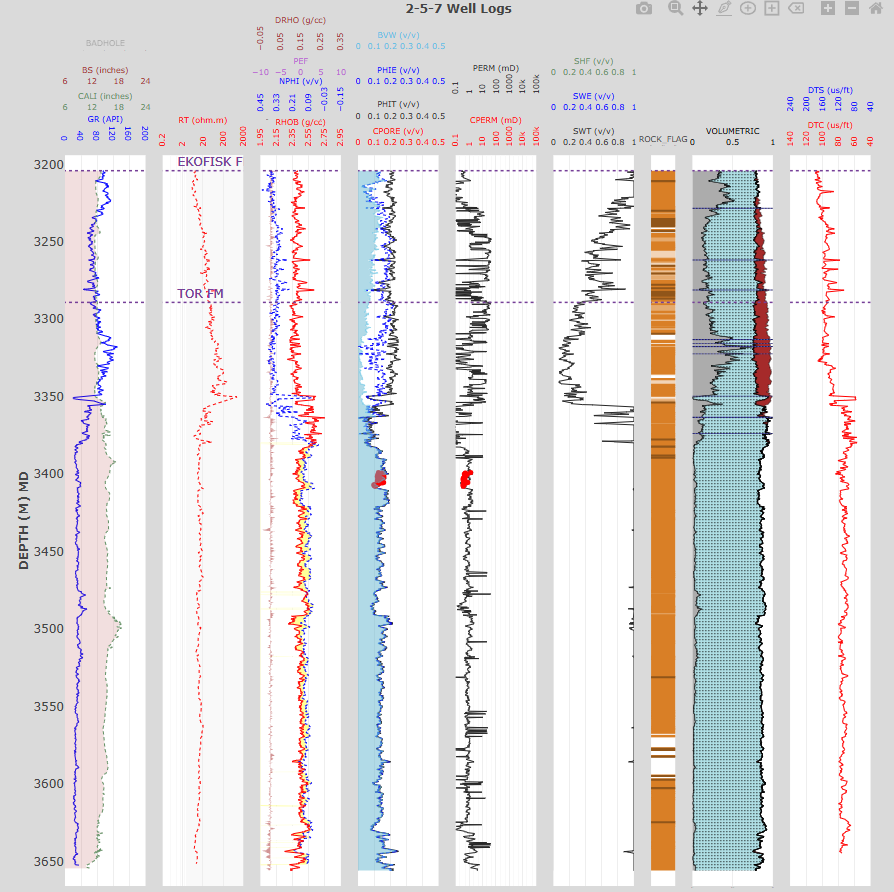
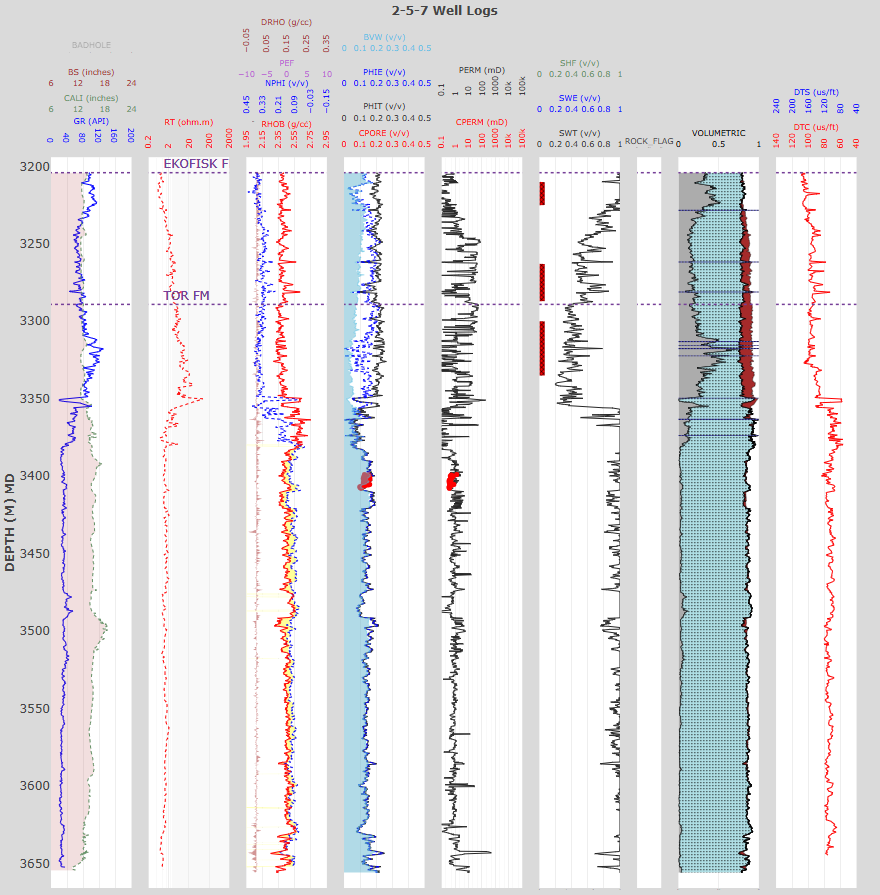
update 2-5 analysis result

Changed region(s): [[0.0, 0.0, 0.9818, 0.9989], [0.8284, 0.0, 0.9818, 0.0303], [0.7057, 0.0, 0.7977, 0.0303]]

diff --git a/03_NNS_2-5/README.md b/03_NNS_2-5/README.md
@@ -12,8 +12,6 @@ The hydrocarbons were sourced from the Upper Jurassic Kimmeridge Clay Formation 
 
 Development of the Ekofisk area began in the 1970s and has involved extensive use of water injection for pressure support and improved oil recovery. A significant challenge has been reservoir compaction, which has led to seabed subsidence, requiring extensive platform remediation and redevelopment efforts over the years.
 
-!alt text
-
 ### Analysis Workflow
 
 The analysis is divided into five main stages, each covered by a dedicated Jupyter notebook:
@@ -37,33 +35,38 @@ This notebook focuses on consolidating data sources into a unified and analysis-
 
 This notebook performs essential log conditioning and computes the primary reservoir properties: lithology and porosity.
 
-*   **Log Conditioning**: Raw logs are conditioned to correct for borehole environmental effects and measurement noise. This includes despiking and smoothing to ensure data quality.
-*   **Volume of Clay (VCLAY)**: The volume of clay is estimated primarily from the Gamma Ray (GR) log. The calculation is calibrated against clean and shale baselines to provide a continuous VCLAY curve.
-*   **Lithology Determination**: Given the chalk reservoir, a multi-mineral model is established. The volume of calcite (VCALC) is determined, likely using a solver or crossplot techniques (e.g., Neutron-Density) to account for the primary mineralogy alongside clay content.
+*   **Volume of Clay (VCLAY)**: The volume of clay is estimated primarily from the Neutron Porosity (NPHI) and Bulk Density (RHOB) and supplemented by Gamma Ray (GR) log. The calculation is calibrated against clean and shale end points.
+*   **Lithology Determination**: Given the chalk reservoir, the volume of calcite (VCALC) is determined, using Neutron-Density cross plot to account for the primary mineralogy alongside clay content.
 *   **Porosity Calculation (PHIT)**: Total porosity (PHIT) is calculated from the density log, corrected for the effects of clay and matrix mineralogy. The resulting porosity log is then calibrated against the available core porosity measurements to ensure accuracy.
 
 * **Validation against CPORE**
 
     ![PHIT CPORE Validation](static/PHIT-CPORE_xplot.png)
-
-    - `TODO:` Perform core depth correction.
-    - Align the interpretation with the core description.
+    - `TODO:`
+        - Check whether the reported values are at ambient or overburden condition.
+        - Perform core depth correction.
+        - Align the interpretation with the core description.
 
 ### 3. Rock Typing and Permeability Modeling
 
 This stage focuses on advanced reservoir characterization by identifying hydraulic flow units and building a predictive model for permeability.
 
 *   **Rock Typing**: The Flow Zone Indicator (FZI) method is used to classify the reservoir into distinct rock types, or "hydraulic flow units." This method leverages the relationship between core porosity and permeability to identify zones with similar fluid flow characteristics.
+    ![FZI on PORO PERM](static/2-5_fzi_poroperm.png)
+
 *   **Permeability Modeling**: A machine learning model is trained to predict permeability (KLOG) along the entire logged interval.
     *   **Features**: The model uses a combination of raw well logs (e.g., GR, RHOB, NPHI) and derived petrophysical properties (VCLAY, PHIT, FZI) as input features.
     *   **Training**: The model is trained and validated using the core permeability data as the ground truth.
     *   **Prediction**: Once trained, the model generates a continuous, high-resolution permeability log, which is crucial for understanding reservoir performance, especially in a low-matrix-permeability system like this chalk reservoir.
+    
 
-* **Validation against CPORE**
+* **Validation against CPERM**
 
     ![PERM CPERM Validation](static/PERM-CPERM_xplot.png)
-    - `TODO:` Perform core depth correction.
-    - Align the interpretation with the core description.
+    - `TODO:`
+        - Check whether the reported values are at ambient or overburden condition.
+        - Perform core depth correction.
+        - Align the interpretation with the core description.
 
 ### 4. Water Saturation
 
@@ -94,3 +97,4 @@ This work demonstrates an end-to-end petrophysical workflow for a complex, natur
 Key insights from the analysis include:
 *   Application of the Flow Zone Indicator (FZI) method to delineate hydraulic flow units, providing a framework for understanding fluid flow in a low-matrix-permeability system.
 *   The development of a machine learning model that predicts a continuous permeability log. This overcomes the limitations of sparse core data and provides a high-resolution input for reservoir simulation and performance prediction.
+* ...
